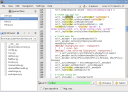
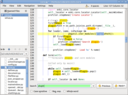
Add missing changes

diff --git a/index.md b/index.md
@@ -107,9 +107,9 @@ baseurl: .
     </div>
     <div class="screenshot-row">
         <div class="screenshot">
-            <a href="screenshots/search-replace.png" rel="lightbox[screenshots]" title="Good bye sed">
-                <img src="screenshots/preview/search-replace.png" class="fancy-border" /></a><br />
-            Good bye sed
+            <a href="screenshots/navigator.png" rel="lightbox[screenshots]" title="Navigator">
+                <img src="screenshots/preview/navigator.png" class="fancy-border" /></a><br />
+            Navigator
         </div>
         <div class="screenshot">
             <a href="screenshots/markdown-preview.png" rel="lightbox[screenshots]" title="Markdown live preview">
